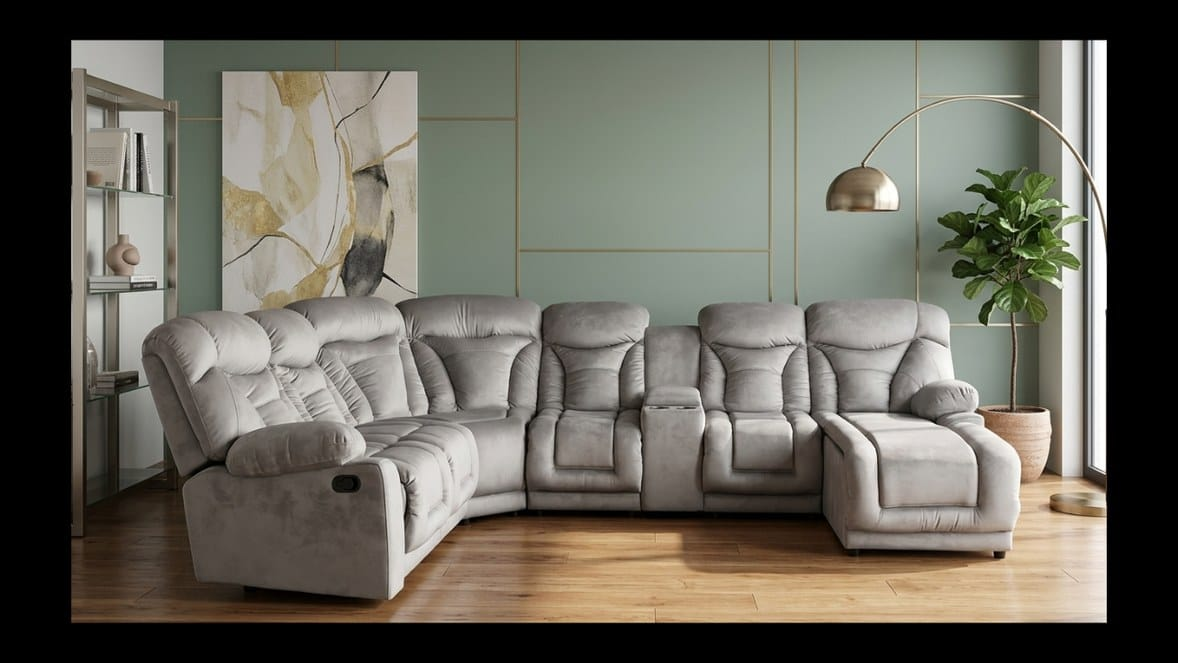
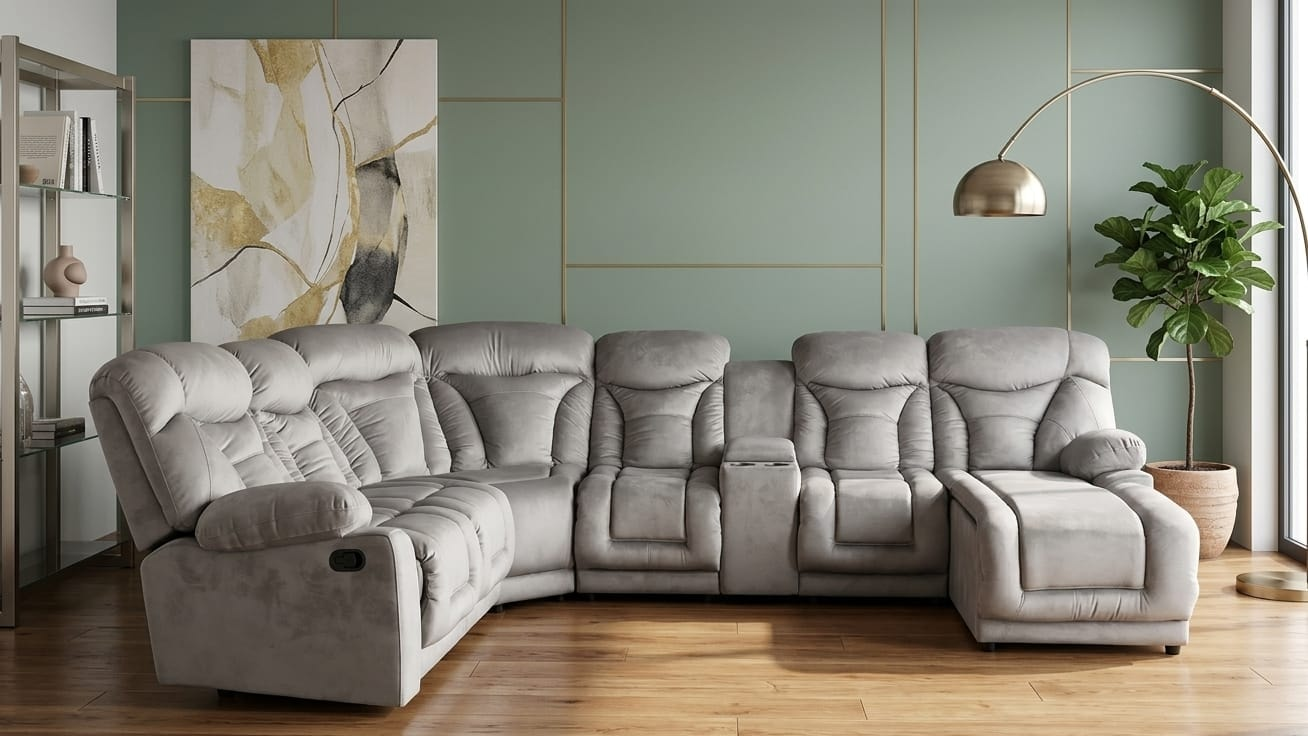
Fotos de salas en mejor calidad; foto completa sobre fondo difuminado en ficha y tarjetas

diff --git a/producto.html b/producto.html
@@ -14,8 +14,11 @@
   .product{display:grid;grid-template-columns:minmax(0,7fr) minmax(0,5fr);gap:40px;align-items:start;padding-block:8px 48px}
   @media (max-width:900px){.product{grid-template-columns:1fr;gap:28px}}
   .gallery{min-width:0;animation:rise .7s cubic-bezier(.2,.7,.2,1) both}
-  .gallery .main{position:relative;background:var(--surface-2);border-radius:var(--r);overflow:hidden;aspect-ratio:4/3.3}
+  .gallery .main{position:relative;background:var(--surface-2);border-radius:var(--r);overflow:hidden;aspect-ratio:4/3}
+  .gallery .main .bgblur{position:absolute;inset:-30px;width:calc(100% + 60px);height:calc(100% + 60px);object-fit:cover;filter:blur(26px) brightness(.72) saturate(1.1);animation:none}
   .gallery .main img{width:100%;height:100%;object-fit:cover;transition:opacity .25s;animation:kenburns 9s ease-in-out infinite alternate}
+  .gallery .main #mainImg{position:relative;z-index:1;object-fit:contain;animation:kenburnsSoft 9s ease-in-out infinite alternate}
+  @keyframes kenburnsSoft{from{transform:scale(1)}to{transform:scale(1.03)}}
   .gallery .main img.swap{opacity:0}
   .gallery .main .tag{position:absolute;left:14px;top:14px;z-index:1}
   .gallery .main .progress{position:absolute;left:0;bottom:0;height:3px;width:0;background:var(--gold);z-index:1}
@@ -135,7 +138,7 @@
 
   $('#product').innerHTML = `
     <figure class="gallery" style="margin:0">
-      <div class="main"><span class="tag ${C.stockClass(p)}">${C.stockLabel(p)}</span><img id="mainImg" src="/${p.imgs[0]}" alt="${p.name}"><div class="progress" id="progress"></div>
+      <div class="main"><span class="tag ${C.stockClass(p)}">${C.stockLabel(p)}</span><img class="bgblur" id="bgBlur" src="/${p.imgs[0]}" alt="" aria-hidden="true"><img id="mainImg" src="/${p.imgs[0]}" alt="${p.name}"><div class="progress" id="progress"></div>
         ${p.varImgs ? `<div class="color-badge" id="colorBadge"><i id="colorBadgeDot"></i><span id="colorBadgeName"></span></div>` : ''}</div>
       ${p.imgs.length > 1 ? `<div class="thumbs" id="thumbs">${thumbs}</div>` : ''}
       ${p.varImgs ? `<div class="cstrip ${p.tapiz.length > 6 ? 'seven' : ''}" id="cstrip" aria-label="Ver en cada color">${p.tapiz.map(k => `<button type="button" data-c="${k}" aria-pressed="false" title="${D.TAPIZ[k].name}"><img src="${colorSrc(k)}" alt="${p.name} en ${D.TAPIZ[k].name}" loading="lazy"><span><i style="background:${D.TAPIZ[k].hex}"></i>${D.TAPIZ[k].name}</span></button>`).join('')}</div>` : ''}
@@ -175,7 +178,7 @@
 
   // ----- galería -----
   const thumbBtns = $$('#thumbs button'); let cur = 0, timer = null;
-  function show(i) { cur = i; thumbBtns.forEach((b, k) => b.setAttribute('aria-pressed', String(k === i))); const img = $('#mainImg'); const apply = () => { img.src = '/' + p.imgs[i]; img.classList.remove('swap'); }; if (C.reduceMotion) apply(); else { img.classList.add('swap'); setTimeout(apply, 240); } restart(); }
+  function show(i) { cur = i; thumbBtns.forEach((b, k) => b.setAttribute('aria-pressed', String(k === i))); const img = $('#mainImg'); const apply = () => { img.src = '/' + p.imgs[i]; const bg = $('#bgBlur'); if (bg) bg.src = img.src; img.classList.remove('swap'); }; if (C.reduceMotion) apply(); else { img.classList.add('swap'); setTimeout(apply, 240); } restart(); }
   function restart() { clearInterval(timer); const pr = $('#progress'); pr.style.transition = 'none'; pr.style.width = '0'; void pr.offsetWidth; if (thumbBtns.length > 1 && !C.reduceMotion) { pr.style.transition = 'width 5000ms linear'; pr.style.width = '100%'; timer = setInterval(() => show((cur + 1) % thumbBtns.length), 5000); } }
   thumbBtns.forEach(b => b.addEventListener('click', () => show(+b.dataset.i)));
   $('.gallery .main').addEventListener('mouseenter', () => clearInterval(timer));

diff --git a/assets/site.js b/assets/site.js
@@ -24,7 +24,7 @@
     const sw = (p.tapiz || []).slice(0, 4).map(t => `<i style="background:${D.TAPIZ[t].hex}" title="${D.TAPIZ[t].name}"></i>`).join('');
     const alt = p.imgs[1] ? `<img class="alt" src="/${p.imgs[1]}" alt="" loading="lazy">` : '';
     return `<a class="card reveal" style="--d:${(i % 4) * 80}ms" href="/producto?id=${p.id}">
-      <div class="ph"><img src="/${p.imgs[0]}" alt="${p.name}" loading="lazy">${alt}<span class="tag ${stockClass(p)}">${p.stock === 'inmediata' ? 'Entrega inmediata' : p.stock === 'medida' ? 'A medida' : 'Hecho para ti'}</span></div>
+      <div class="ph"><img class="bgblur" src="/${p.imgs[0]}" alt="" aria-hidden="true" loading="lazy"><img src="/${p.imgs[0]}" alt="${p.name}" loading="lazy">${alt}<span class="tag ${stockClass(p)}">${p.stock === 'inmediata' ? 'Entrega inmediata' : p.stock === 'medida' ? 'A medida' : 'Hecho para ti'}</span></div>
       <div class="c"><div class="cat">${c.name}</div><h3>${p.name}</h3><div class="type">${p.type}</div>${sw ? `<div class="sw">${sw}</div>` : ''}
       <div class="price num">${p.quote ? 'Cotiza a tu medida' : fmt(p.price) + '<small>MXN</small>'}</div>
       <div class="msi num">${p.quote ? 'Precio según tus medidas, sin compromiso' : '12 × ' + fmt2(p.price / 12) + ' sin intereses'}</div></div></a>`;

diff --git a/assets/site.css b/assets/site.css
@@ -115,10 +115,12 @@ footer.site .pay-logos span{border:1px solid #3a3326;border-radius:4px;padding:2
 .card:hover{transform:translateY(-6px);box-shadow:var(--shadow)}
 .card .ph{position:relative;aspect-ratio:4/3;overflow:hidden;background:var(--surface-2)}
 .card .ph img{width:100%;height:100%;object-fit:cover;transition:transform .7s ease,opacity .4s}
+.card .ph .bgblur{position:absolute;inset:-20px;width:calc(100% + 40px);height:calc(100% + 40px);object-fit:cover;filter:blur(18px) brightness(.75) saturate(1.1)}
+.card .ph img:not(.bgblur){position:relative;z-index:1;object-fit:contain}
 .card .ph img.alt{position:absolute;inset:0;opacity:0}
 .card:hover .ph img{transform:scale(1.05)}
 .card:hover .ph img.alt{opacity:1}
-.card .tag{position:absolute;left:10px;top:10px;font-size:10px;letter-spacing:.12em;text-transform:uppercase;padding:5px 9px;font-weight:500;border-radius:3px}
+.card .tag{position:absolute;z-index:2;left:10px;top:10px;font-size:10px;letter-spacing:.12em;text-transform:uppercase;padding:5px 9px;font-weight:500;border-radius:3px}
 .tag.ok{background:var(--ok-soft);color:var(--ok)}
 .tag.pedido{background:var(--surface-2);color:var(--muted)}
 .tag.medida{background:var(--gold-soft);color:var(--gold-deep)}
